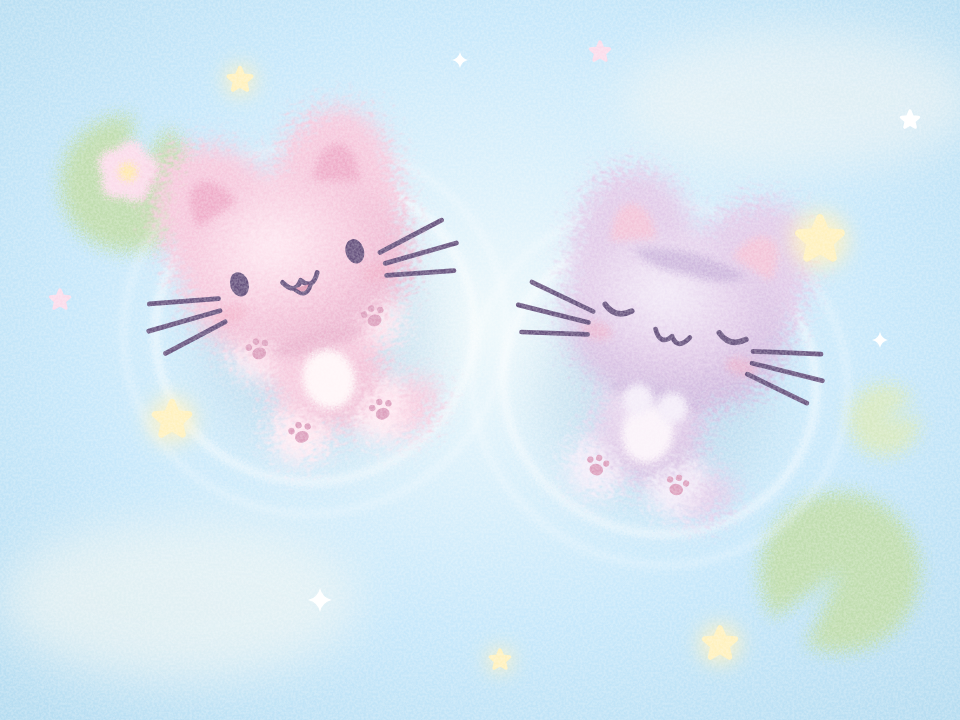
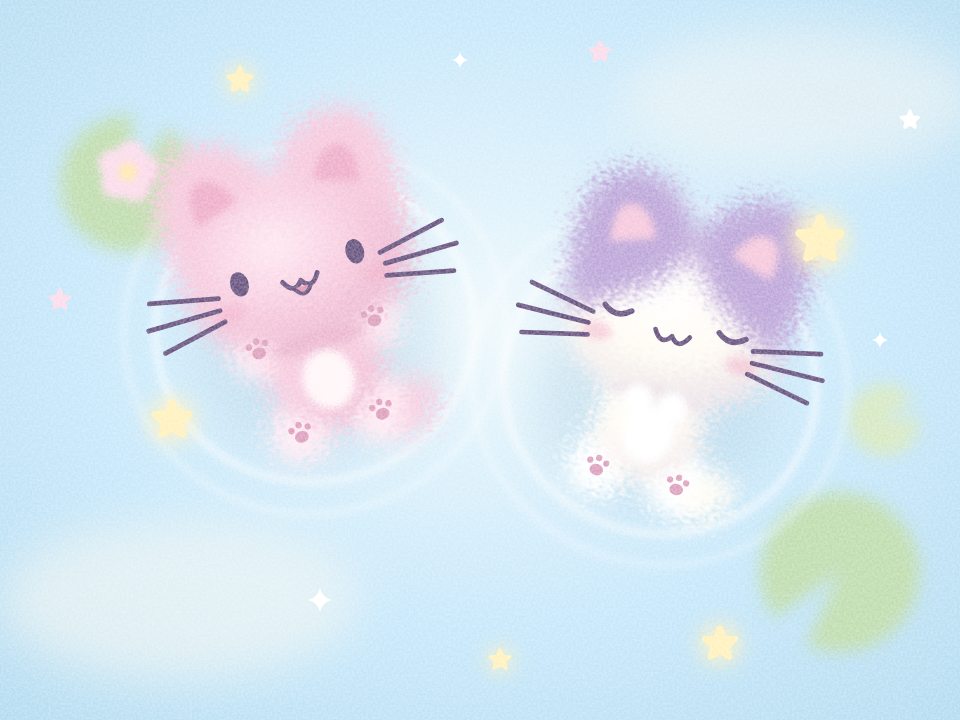
Illustrate ear-root coat patches and a lavender hachiware blaze

Changed region(s): [[0.5938, 0.2444, 0.8438, 0.7333]]

diff --git a/SKILL.md b/SKILL.md
@@ -77,8 +77,10 @@ chin shade  <ellipse cx="0" cy="40" rx="24" ry="5" fill=SHADE opacity=".55"/>
 belly       <ellipse cx="0" cy="60" rx="13" ry="15" fill=BELLY/>
 inner ear   cat: <path d="M20 -38 C24 -49 31 -54 37 -52 C43 -50 44 -41 42 -31 Z" fill=EAR/>
 blush       <ellipse cx="38" cy="15" rx="8" ry="4.5" fill="#F2B0C7" opacity=".55"/>
-markings    any ellipse or blob in a darker/lighter fur tone: a cap patch at (-26,-22), a spot on the body, a mask
+markings    interior spots, tabby stripes or muzzle markings in a lighter or darker fur tone
 ```
+
+**Cat coat patches that meet the outline.** Extend the patch past the head, trim it to the combined head-and-ears silhouette, then apply the shared fleece filter. Keep the pink inner ear in MID. For a side cap (Rainbow Quilt), carry the colour from one ear root along the outer cheek and taper it toward the temple. For a hachiware blaze (八割れ, Pond Float), colour both ears and the crown. Leave a cream-white point high between the ears that widens in two gentle curves toward the cheeks and joins the white muzzle.
 
 **INK layer** — sharp, **thick** and round-ended. Chunky lines give the blunt, dopey cuteness; thin lines look scratchy against the soft fur. Ink stroke widths: mouth and whiskers **2.4**, line eyes **2.8**, never below 2. Eyes are solid ovals with **no highlights**.
 
